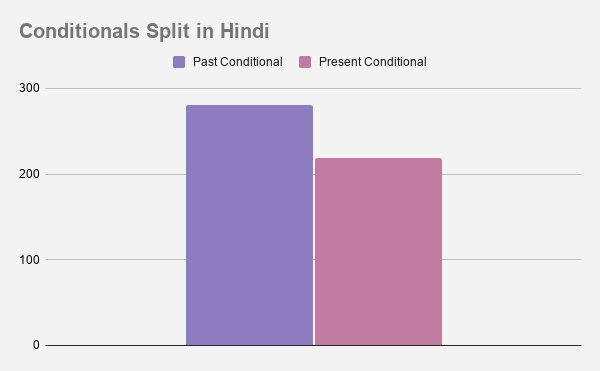
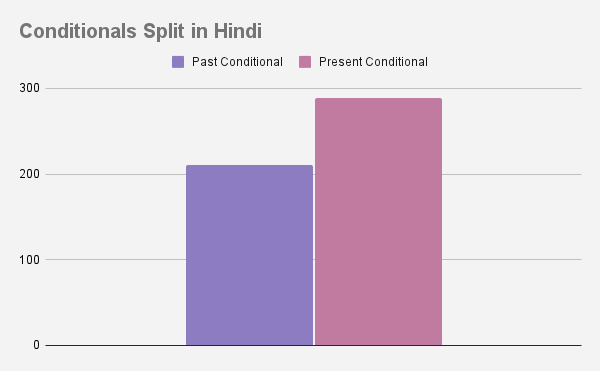
English and Hindi done.

diff --git a/README.md b/README.md
@@ -47,9 +47,9 @@ Conditional sentences are sentences that express one thing contingent on somethi
 - [x] Translate the sentences into Hindi and Telugu.
 - [x] POS Tagging for Hindi, English, and Telugu sentences.
 - [x] Chunk the Telugu sentences. 
-- [ ] Identity the type of conditional clause according to the rules as seen in **Types of Conditionals**. **TODO**
-- [ ] Find patterns and draw graphs to visualise the observations. **TODO**
-- [ ] Write the final report. **TODO**
+- [x] Identity the type of conditional clause according to the rules as seen in **Types of Conditionals**.
+- [x] Find patterns and draw graphs to visualise the observations.
+- [x] Write the final report.
 ***
 
 ## Directory Structure
@@ -60,13 +60,28 @@ The directory structure for the repository is as follows:
 ├── annotation
 │   ├── data
 │   │   ├── eng_pos_tags.txt
-│   │   └── hin_pos_tags.txt
+│   │   ├── Hindi
+│   │   │   ├── past.txt
+│   │   │   └── present.txt
+│   │   ├── hin_pos_tags.txt
+│   │   ├── tel_pos_tags.txt
+│   │   ├── Type_0
+│   │   │   └── eng.txt
+│   │   ├── Type_1
+│   │   │   └── eng.txt
+│   │   ├── Type_2
+│   │   │   └── eng.txt
+│   │   └── Type_3
+│   │       └── eng.txt
 │   ├── eng.ipynb
 │   ├── eng.py
 │   ├── headers.py
 │   ├── helper_hindi.py
 │   ├── hindi.ipynb
-│   └── hindi.py
+│   ├── hindi.py
+│   ├── Telugu_pos.ipynb
+│   └── Telugu_POS.py
+├── conditional_sentences_telugu.txt
 ├── data
 │   ├── austen-emma.txt
 │   ├── austen-persuasion.txt
@@ -88,10 +103,18 @@ The directory structure for the repository is as follows:
 │   └── whitman-leaves.txt
 ├── dataset_create.py
 ├── eng_conditional_sentences.txt
+├── extra
+│   ├── draw_graphs.py
+│   └── images
+│       ├── Conditionals_Split_in_English.png
+│       ├── ConditionalsSplit_in_Hindi.png
+│       └── Conditionals_Split_in_Telugu.png
 ├── final_hindi_sens.txt
 ├── hin_conditional_sentences.txt
 ├── LICENSE
+├── ProjectPlan.pdf
 ├── README.md
+├── Report.pdf
 └── translate_sentences.py
 ```
 ***
@@ -188,8 +211,76 @@ TAGS:
 ```
 ***
 
-## Contributors
+## Analysis Of The Conditionals
+All the sentences were manually analysed. English sentences were classified into the four categories discussed above. Telugu and Hindi sentences were classified into **past conditionals** and **present conditionals**. This is because of the special sytactic features in the language that will be elaborated on later.
 
+### English
+The classified sentences can be found in the respective type in the `data` folder. For example, the _Type 1_ conditionals can be found in `data/Type_1/eng.txt`.
+The split can be seen below.
+
+| Type 0 | Type 1 | Type 2 | Type 3 |
+|--------|--------|--------|--------|
+| 156    | 63     | 203    | 78     |
+
+### Hindi
+The classified sentences can be found in the respective type in the `data/Hindi` folder. For example, the _Past Conditionals_ can be found in `data/Hindi/past.txt`.
+The split can be seen below.
+
+| Past Conditionals | Present Conditionals |
+|--------|--------|
+| 211    | 289     |
+
+### Telugu
+The classified sentences can be found in the respective type in the `data/Telugu` folder. For example, the _Past Conditionals_ can be found in `data/Telugu/past.txt`.
+The split can be seen below.
+
+| Past Conditionals | Present Conditionals |
+|--------|--------|
+| 211    | 289     |
+***
+
+## Observations
+
+### General Splits
+
+**English**
+
+![Conditional Splits in English](extra/images/Conditionals_Split_in_English.png)
+
+**Hindi**
+
+![Conditional Splits in Hindi](extra/images/Conditionals_Split_in_Hindi.png)
+
+**Telugu**
+
+![Conditional Splits in Telugu](extra/images/Conditionals_Split_in_Telugu.png)
+
+### English
+- There were more past conditionals than present conditionals.
+	- This was because most of the sentences were taken from classic English literature. These texts tend to be written in the past tense.
+- There were more simple past and simple present conditionals than present with infinitve and past perfect conditionals.
+	- This was because of the fact that the corpus chosen was from classic English literature and it is less likely to be in perfect tenses.
+- There were many sentences that were in _Shakesperean English_ and they were converted into sentences in the past tense in English.
+
+### Hindi
+- Sentences were classified into past and present conditionals instead of the four types discussed above.
+	- This was because there was a loss in translation of the perfect tense aspect when converting into a past or present tense.
+	- Similarly, it was hard to find exact Hindi translations of the _Shakesperean English_ and therefore, we had to choose this approach.
+- Here, there were more present conditionals rather than past conditionals.
+	- This is because of the fact that there was an inherited bias to convert sentences into their present form during the manual translation of these sentences.
+- Unlike English, the _first_ word had two options - _अगर_ or _यदि_.
+
+### Telugu
+
+***
+
+## Conclusions
+The conditionals in Indian languages were harder to analyse than the conditionals in English. This was because of the syntax of the language. Hindi, being a free order language had different variations of the same sentence, and it was hard to choose one particular translation. Similarly, the innate bias to convert sentences into their present form while translating ensure that the analyses that we did could be more varied. The fact that our corpus consisted of a lot of Old English led to very interesting constructions which had to be carefully examined before we could place them into a particular category.
+
+We propose, after the work done in this project that condtionals in Indian languages be dealt with in an easier manner than how they are dealt with in English. There is no need for complicating it and splitting into four types. It would be easier to just deal with a **past** and a **present** conditional.
+***
+
+## Contributors
 > [Tejasvi Chebrolu](https://github.com/tejasvicsr1)
 
 > [Padakanti Srijith](https://github.com/srijith9862)
